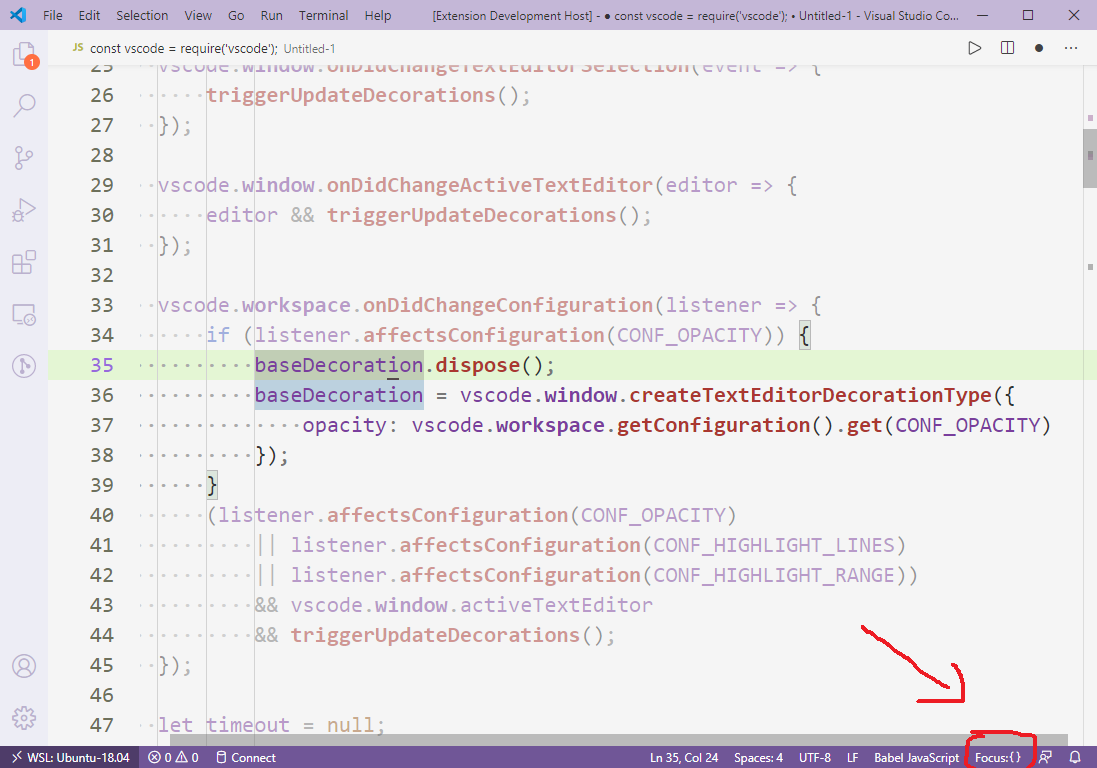
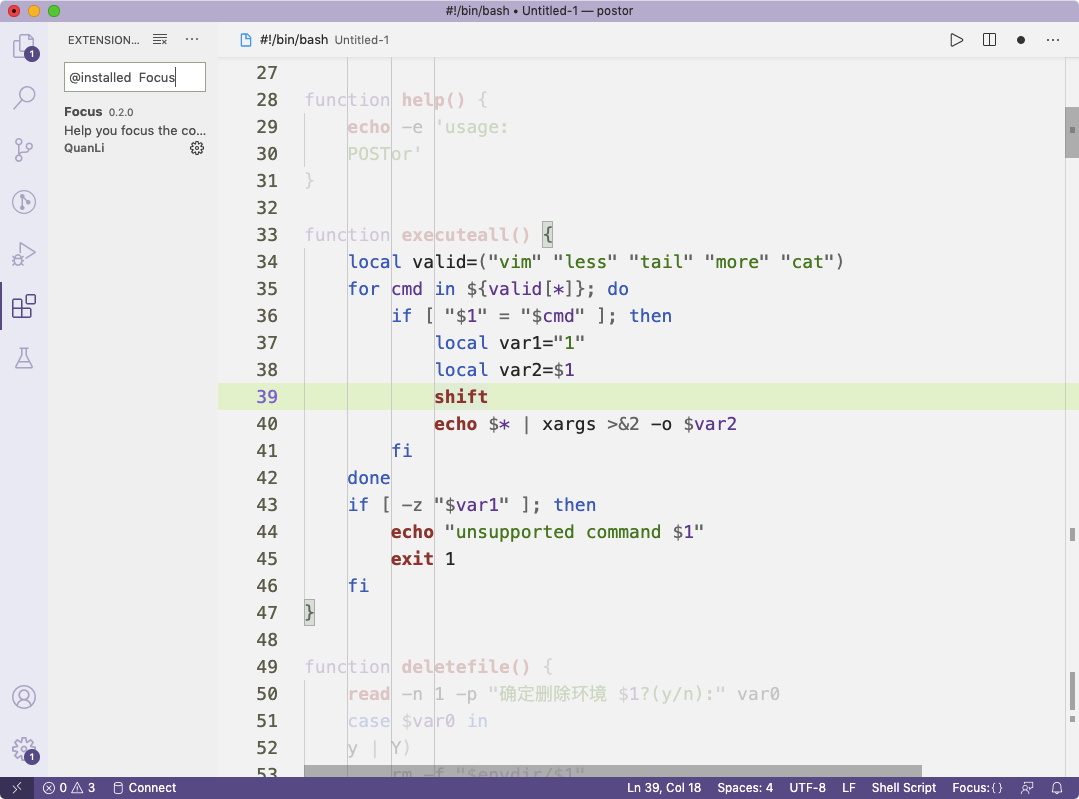
Make it can be turn off

diff --git a/extension.js b/extension.js
@@ -1,5 +1,4 @@
 const vscode = require('vscode');
-const { POINT_CONVERSION_COMPRESSED } = require('constants');
 
 
 const CONF_OPACITY = "focus.opacity";
@@ -8,13 +7,15 @@ const CONF_HIGHLIGHT_RANGE_LINE = "line";
 const CONF_HIGHLIGHT_RANGE_BLOCK = "block";
 const CONF_HIGHLIGHT_RANGE_INDENT = "indent";
 const CONF_HIGHLIGHT_RANGE_FIXED = "fixed";
+const CONF_HIGHLIGHT_RANGE_NONE = "none";
 const CONF_HIGHLIGHT_LINES = "focus.highlightLines";
 
 const CMD_TO_LINE = "focus.swtichToLineLevel";
 const CMD_TO_FIXED = "focus.switchToFixedLevel";
 const CMD_TO_INDENT = "focus.switchToIndentLevel";
 const CMD_TO_BLOCK = "focus.switchToBlockLevel";
-const CMD_TOGGLE = "focus.focus.toggleLevel";
+const CMD_TURN_OFF = "focus.turnOff";
+const CMD_TOGGLE = "focus.toggleLevel";
 
 function activate(context) {
 
@@ -76,8 +77,16 @@ function activate(context) {
                 let lineCount = vscode.workspace.getConfiguration().get(CONF_HIGHLIGHT_LINES) / 2;
                 fixedDecoration(lineCount);
                 break;
+            case CONF_HIGHLIGHT_RANGE_NONE:
+                noneDecoration();
+                break;
         };
         activeEditor.setDecorations(baseDecoration, range);
+
+        function noneDecoration(){
+            range.push(new vscode.Range(new vscode.Position(0,0),
+            new vscode.Position(0,0)));
+        }
 
         function rangeDecoration() {
             const TOKEN_BASE = 1;
@@ -186,6 +195,9 @@ function activate(context) {
     vscode.commands.registerCommand(CMD_TO_FIXED, () => {
         vscode.workspace.getConfiguration().update(CONF_HIGHLIGHT_RANGE, CONF_HIGHLIGHT_RANGE_FIXED, vscode.ConfigurationTarget.Global);
     });
+    vscode.commands.registerCommand(CMD_TURN_OFF,()=>{
+        vscode.workspace.getConfiguration().update(CONF_HIGHLIGHT_RANGE,CONF_HIGHLIGHT_RANGE_NONE,vscode.ConfigurationTarget.Global);
+    });
     vscode.commands.registerCommand(CMD_TOGGLE, () => {
         switch (vscode.workspace.getConfiguration().get(CONF_HIGHLIGHT_RANGE)) {
             case CONF_HIGHLIGHT_RANGE_BLOCK:
@@ -198,6 +210,9 @@ function activate(context) {
                 vscode.commands.executeCommand(CMD_TO_INDENT);
                 break;
             case CONF_HIGHLIGHT_RANGE_INDENT:
+                vscode.commands.executeCommand(CMD_TURN_OFF);
+                break;
+            case CONF_HIGHLIGHT_RANGE_NONE:
                 vscode.commands.executeCommand(CMD_TO_BLOCK);
                 break;
         };
@@ -225,6 +240,9 @@ function activate(context) {
                 break;
             case CONF_HIGHLIGHT_RANGE_INDENT:
                 statusItem.text = `Focus:$(tree-filter-on-type-on)`;
+                break;
+            case CONF_HIGHLIGHT_RANGE_NONE:
+                statusItem.text = `Focus:$(stop)`;
                 break;
         }
         statusItem.show();

diff --git a/README.md b/README.md
@@ -4,6 +4,8 @@
 
 Highlight code lines/code blcok what you are focus on.
 
+![Usage](images/usage01.png)
+
 ## Features
 
 * Highlight current line.
@@ -15,9 +17,6 @@ Highlight code lines/code blcok what you are focus on.
 
 * Just install it.
 * We provide commands and statusbar button that help you quickly change level.
-
-![Usage](images/usage01.png)
-
 
 ![Usage](images/usage02.png)
 
@@ -45,6 +44,7 @@ Configurate opacity:
 "focus.opacity":0.7 //number between (0,1)
 ```
 
+![Usage](images/usage03.png)
 
 ## Change Log
 See Change Log [here](CHANGELOG.md)

diff --git a/CHANGELOG.md b/CHANGELOG.md
@@ -1,9 +1,17 @@
 # Change Log
 
+## 0.3.0 (2020-06-23)
+
+Add:
+
++ Make it can be turn off
+
 ## 0.2.0 (2020-06-22)
 
-* Fix statusbar item not update immediately.
+Fix:
+
++ Fix statusbar item not update immediately.
 
 ## 0.1.0 (2020-06-21)
 
-- Initial release
++ Initial release
